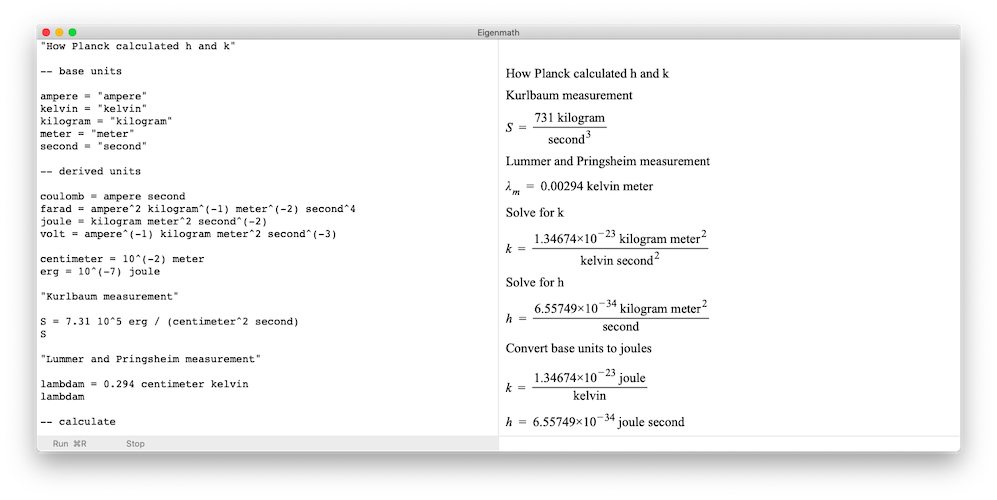
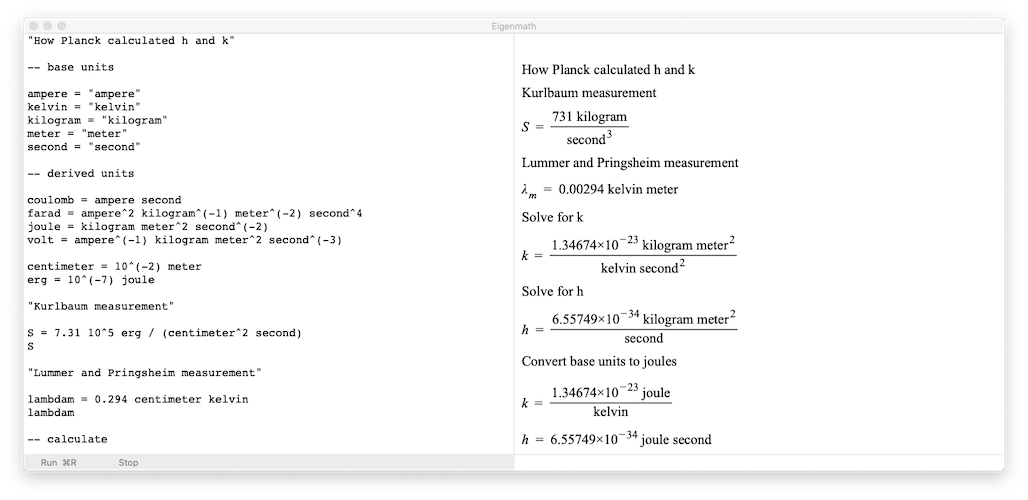
update

Changed region(s): [[0.0, 0.03, 0.9639, 0.96], [0.4975, 0.12, 0.7151, 0.39], [0.9639, 0.09, 0.995, 0.9]]

diff --git a/index.html b/index.html
@@ -6,7 +6,7 @@
 </head>
 <body style="font-size:16pt;line-height:2">
 
-<img src="screenshot.png" alt="?" width="997" height="500">
+<img src="screenshot.png" alt="?" width="1028" height="500">
 <br>
 
 <a href="eigenmath.pdf">Eigenmath Manual</a>
